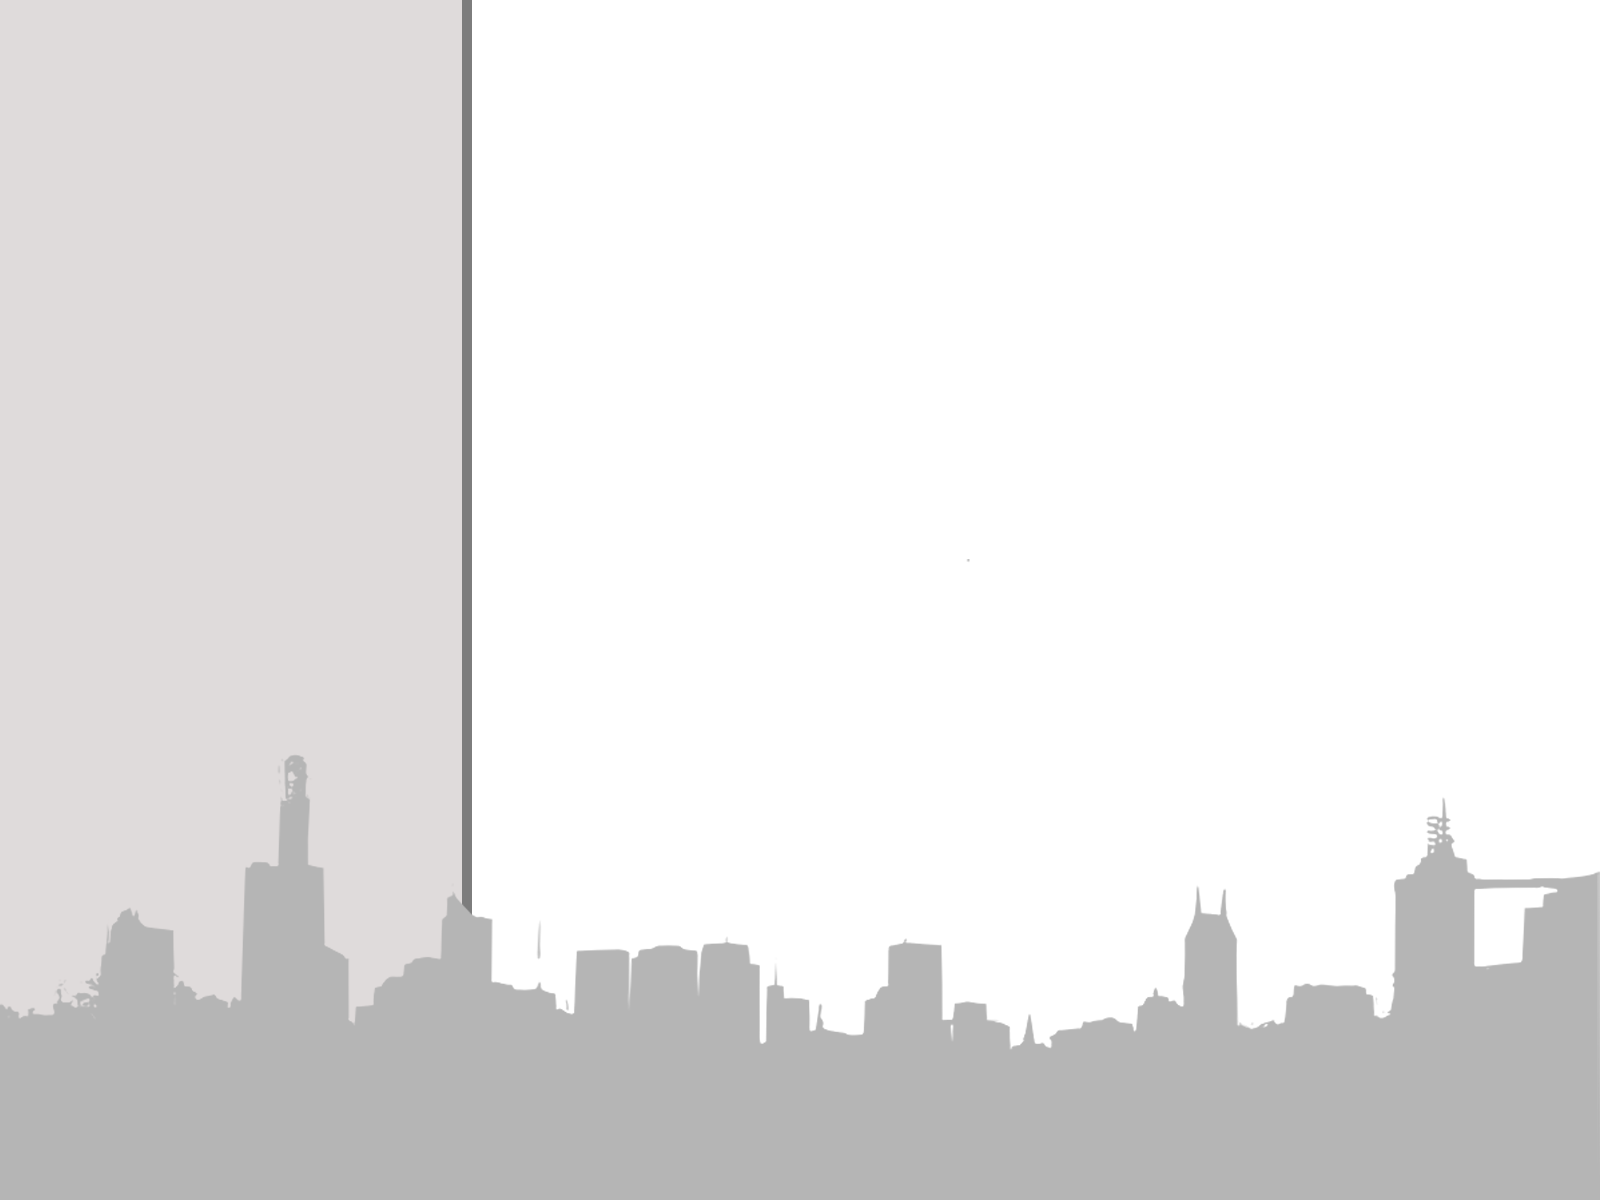
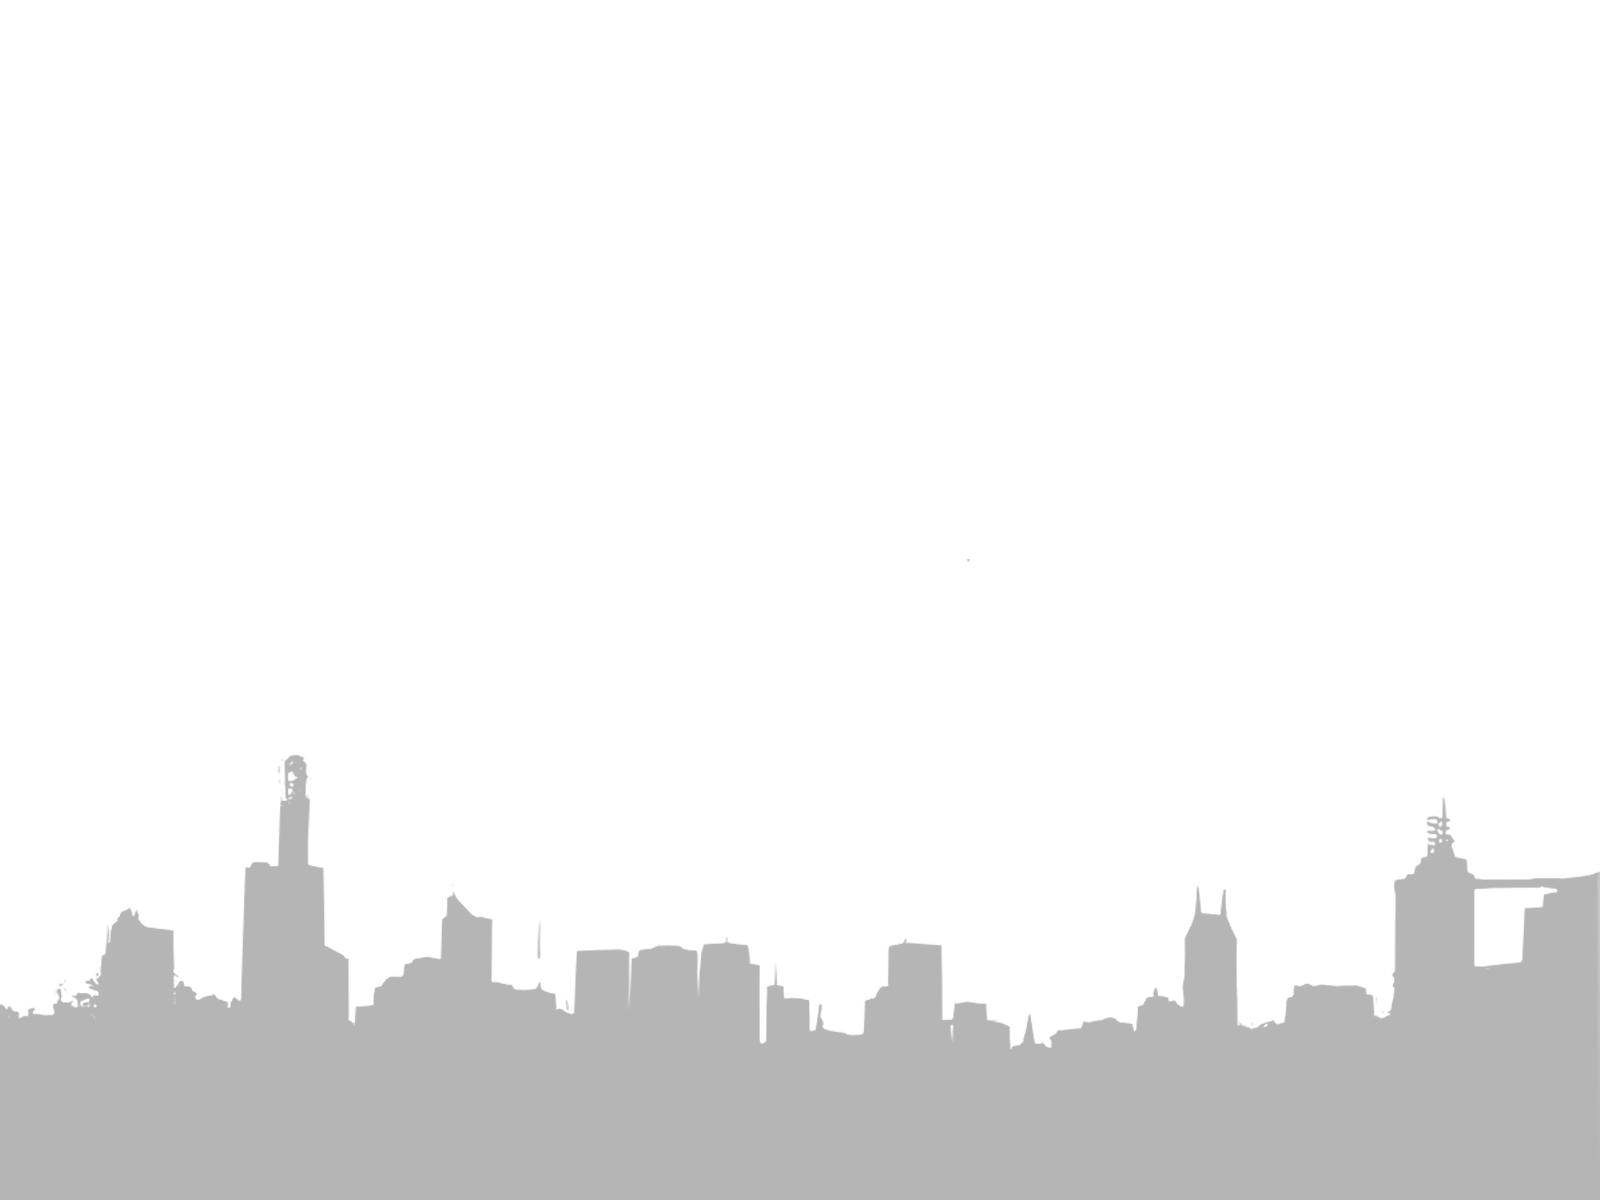
Column변경 (알림, 유저, 임대요청, 직접요청)

Changed region(s): [[0.0, 0.0, 0.3125, 0.8633]]

diff --git a/leaseCity/src/main/webapp/WEB-INF/css/main.css b/leaseCity/src/main/webapp/WEB-INF/css/main.css
@@ -1527,13 +1527,15 @@ button{
     overflow: auto;
 }
 .help_menu{
+	background: url("../images/help/help_menu.png") no-repeat;
+	background-size: 260px 400px;
 	margin-top : 20px;
 	min-height : 800px;
 	margin-left : 50px;
 	float : left;
 	min-width : 30%;
 	width : 30%;
-	position: fixed;    
+	position: fixed;
 }
 .help_baseLine{
     padding: 0;

diff --git a/leaseCity/src/main/java/leasecity/dto/lease/LeaseCall.java b/leaseCity/src/main/java/leasecity/dto/lease/LeaseCall.java
@@ -26,7 +26,7 @@ public class LeaseCall implements Serializable {
 	/** 임대 요청 번호. */
 	private Integer leaseCallNo;
 
-	/** 회원ID. */
+	/** 회원 아이디 */
 	private String userId;
 
 	/** 임대 분류. */
@@ -55,6 +55,12 @@ public class LeaseCall implements Serializable {
 
 	/** 요청글 등록날짜. */
 	private Date regDate;
+
+	/** 하한가격 (~부터). */
+	private Integer fromPrice;
+
+	/** 상한가격 (~까지). */
+	private Integer toPrice;
 
 	/** 임대 직접신청 목록. */
 	private List<LeaseDirectCall> leaseDirectCallsList;

diff --git a/leaseCity/src/main/java/leasecity/dto/adminwork/Notify.java b/leaseCity/src/main/java/leasecity/dto/adminwork/Notify.java
@@ -43,18 +43,15 @@ public class Notify implements Serializable {
 
 	/** 임대 양도 번호. */
 	private Integer leaseTransferNo;
+	
+	/** 글 속성 : 게시글 / 댓글 or 질문/답변 */
+	private String attribute;
 
 	/** 게시글 번호. */
 	private Integer commentNo;
 
 	/** 댓글 인식번호. */
 	private Integer replyNo;
-
-	/** 질문글 번호. */
-	private Integer questionNo;
-
-	/** 답변글 번호. */
-	private Integer answerNo;
 
 	/** 알림날짜. */
 	private Date notifyDate;

diff --git a/leaseCity/src/main/java/leasecity/controller/CommunityController.java b/leaseCity/src/main/java/leasecity/controller/CommunityController.java
@@ -136,7 +136,6 @@ public class CommunityController {
 			// 1-2. 발급코드가 null이면 ""으로 받음. 아니면 값 그대로 받음.
 			
 			//로그인 중인 유저 탐색
-			
 			User loginUser = (User) session.getAttribute("loginUser");
 			
 			//loginUser가 null이면 관리자로 대입.

diff --git a/leaseCity/src/main/java/leasecity/dto/lease/LeaseDirectCall.java b/leaseCity/src/main/java/leasecity/dto/lease/LeaseDirectCall.java
@@ -37,5 +37,11 @@ public class LeaseDirectCall implements Serializable {
 
 	/** 직접요청 내용. */
 	private String directCallContent;
+	
+	/** 하한가격 (~부터). */
+	private Integer fromprice;
+
+	/** 상한가격 (~까지). */
+	private Integer toprice;
 
 }
